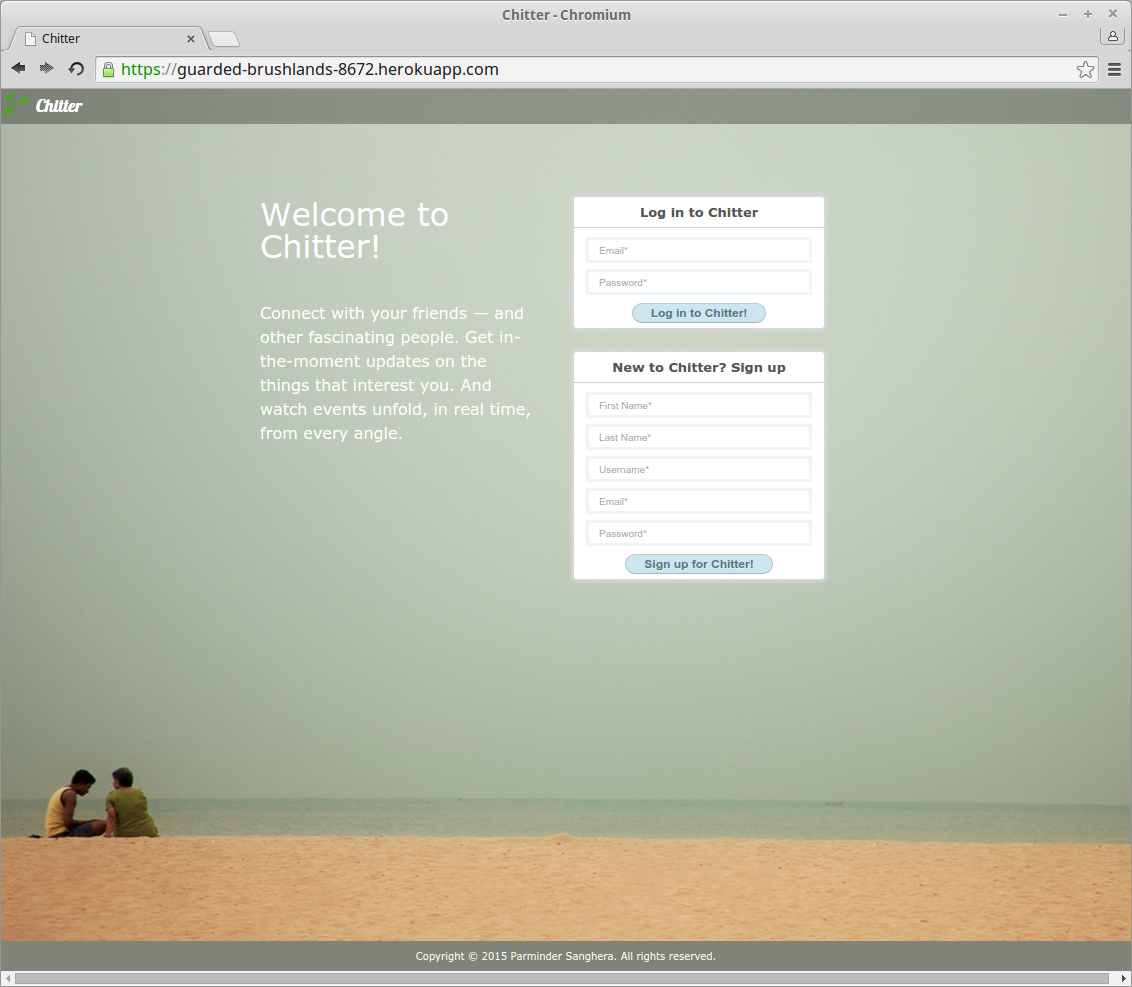
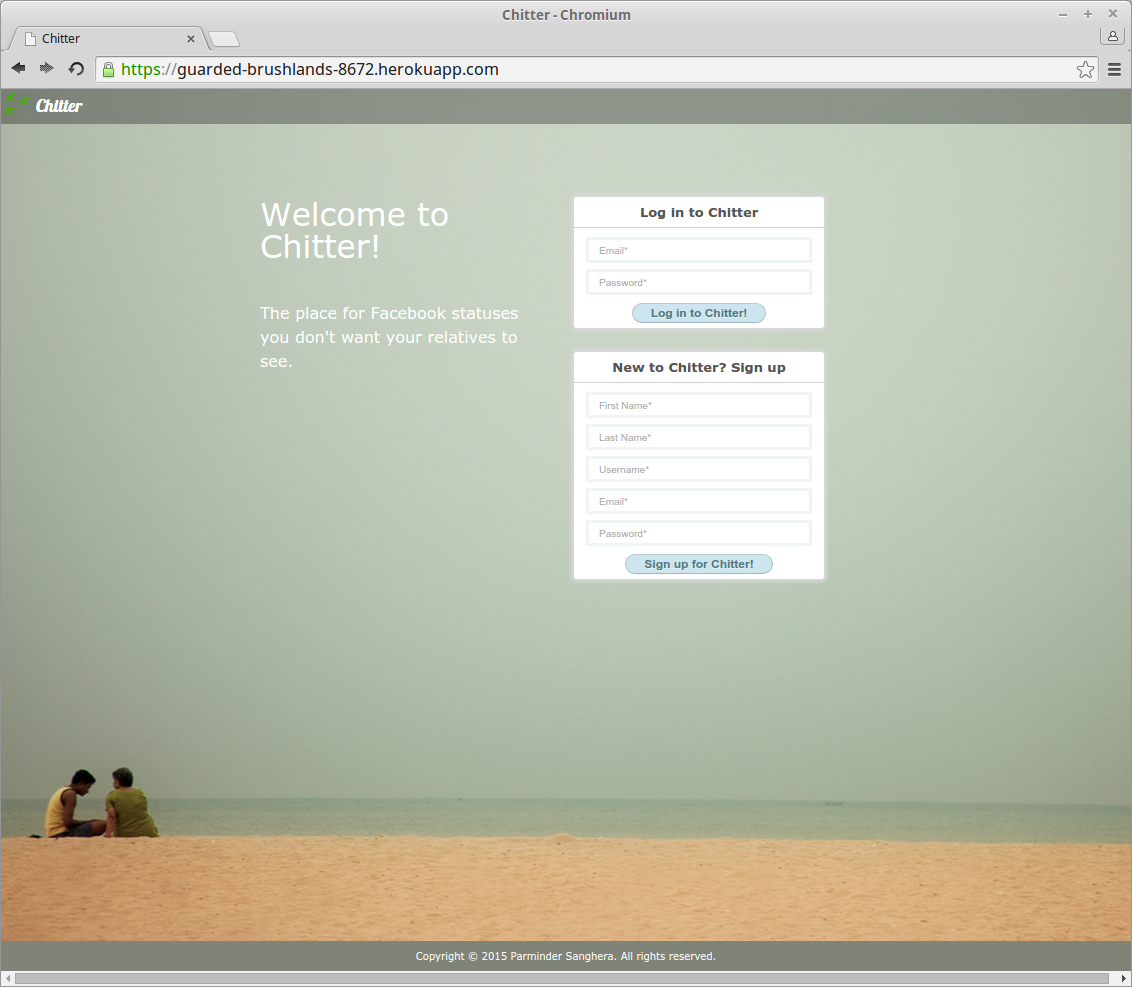
updated screenshot image on README

Changed region(s): [[0.2164, 0.304, 0.4638, 0.4559]]

diff --git a/README.md b/README.md
@@ -11,7 +11,7 @@ Screenshot
 -------
 ![alt text](https://github.com/ajitsy/chitter-challenge/blob/master/app/public/images/screenshot-1.png)
 
-How to Use:
+How to Use
 -------
 
 ```
@@ -23,7 +23,7 @@ rackup
 
 Use Rspec to test it.
 
-Technologies Used:
+Technologies Used
 -------
 * Ruby
 * Sinatra
